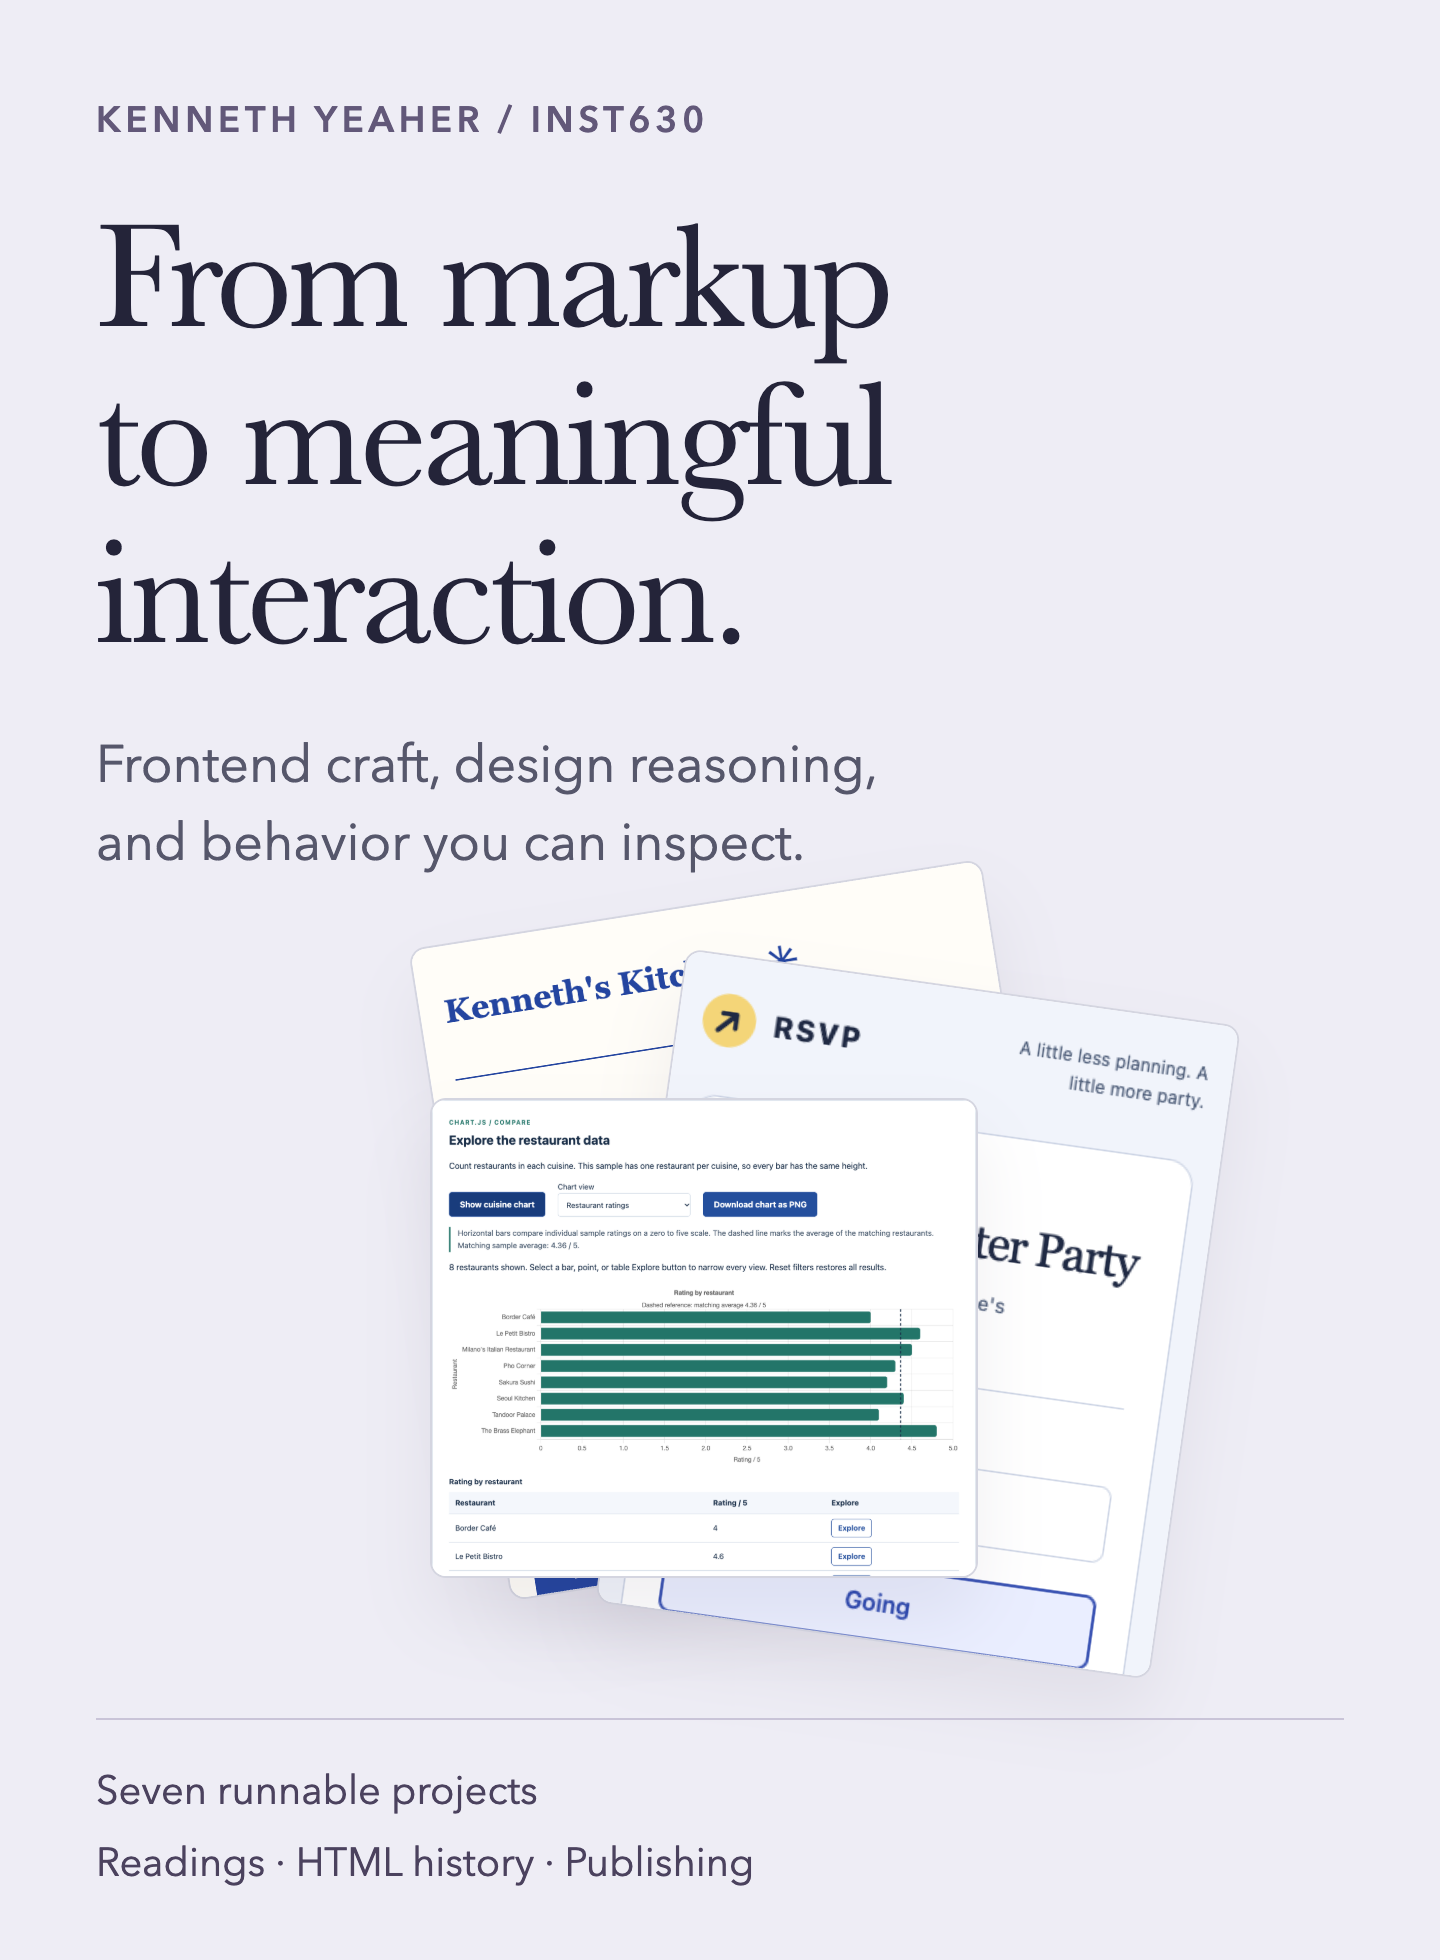
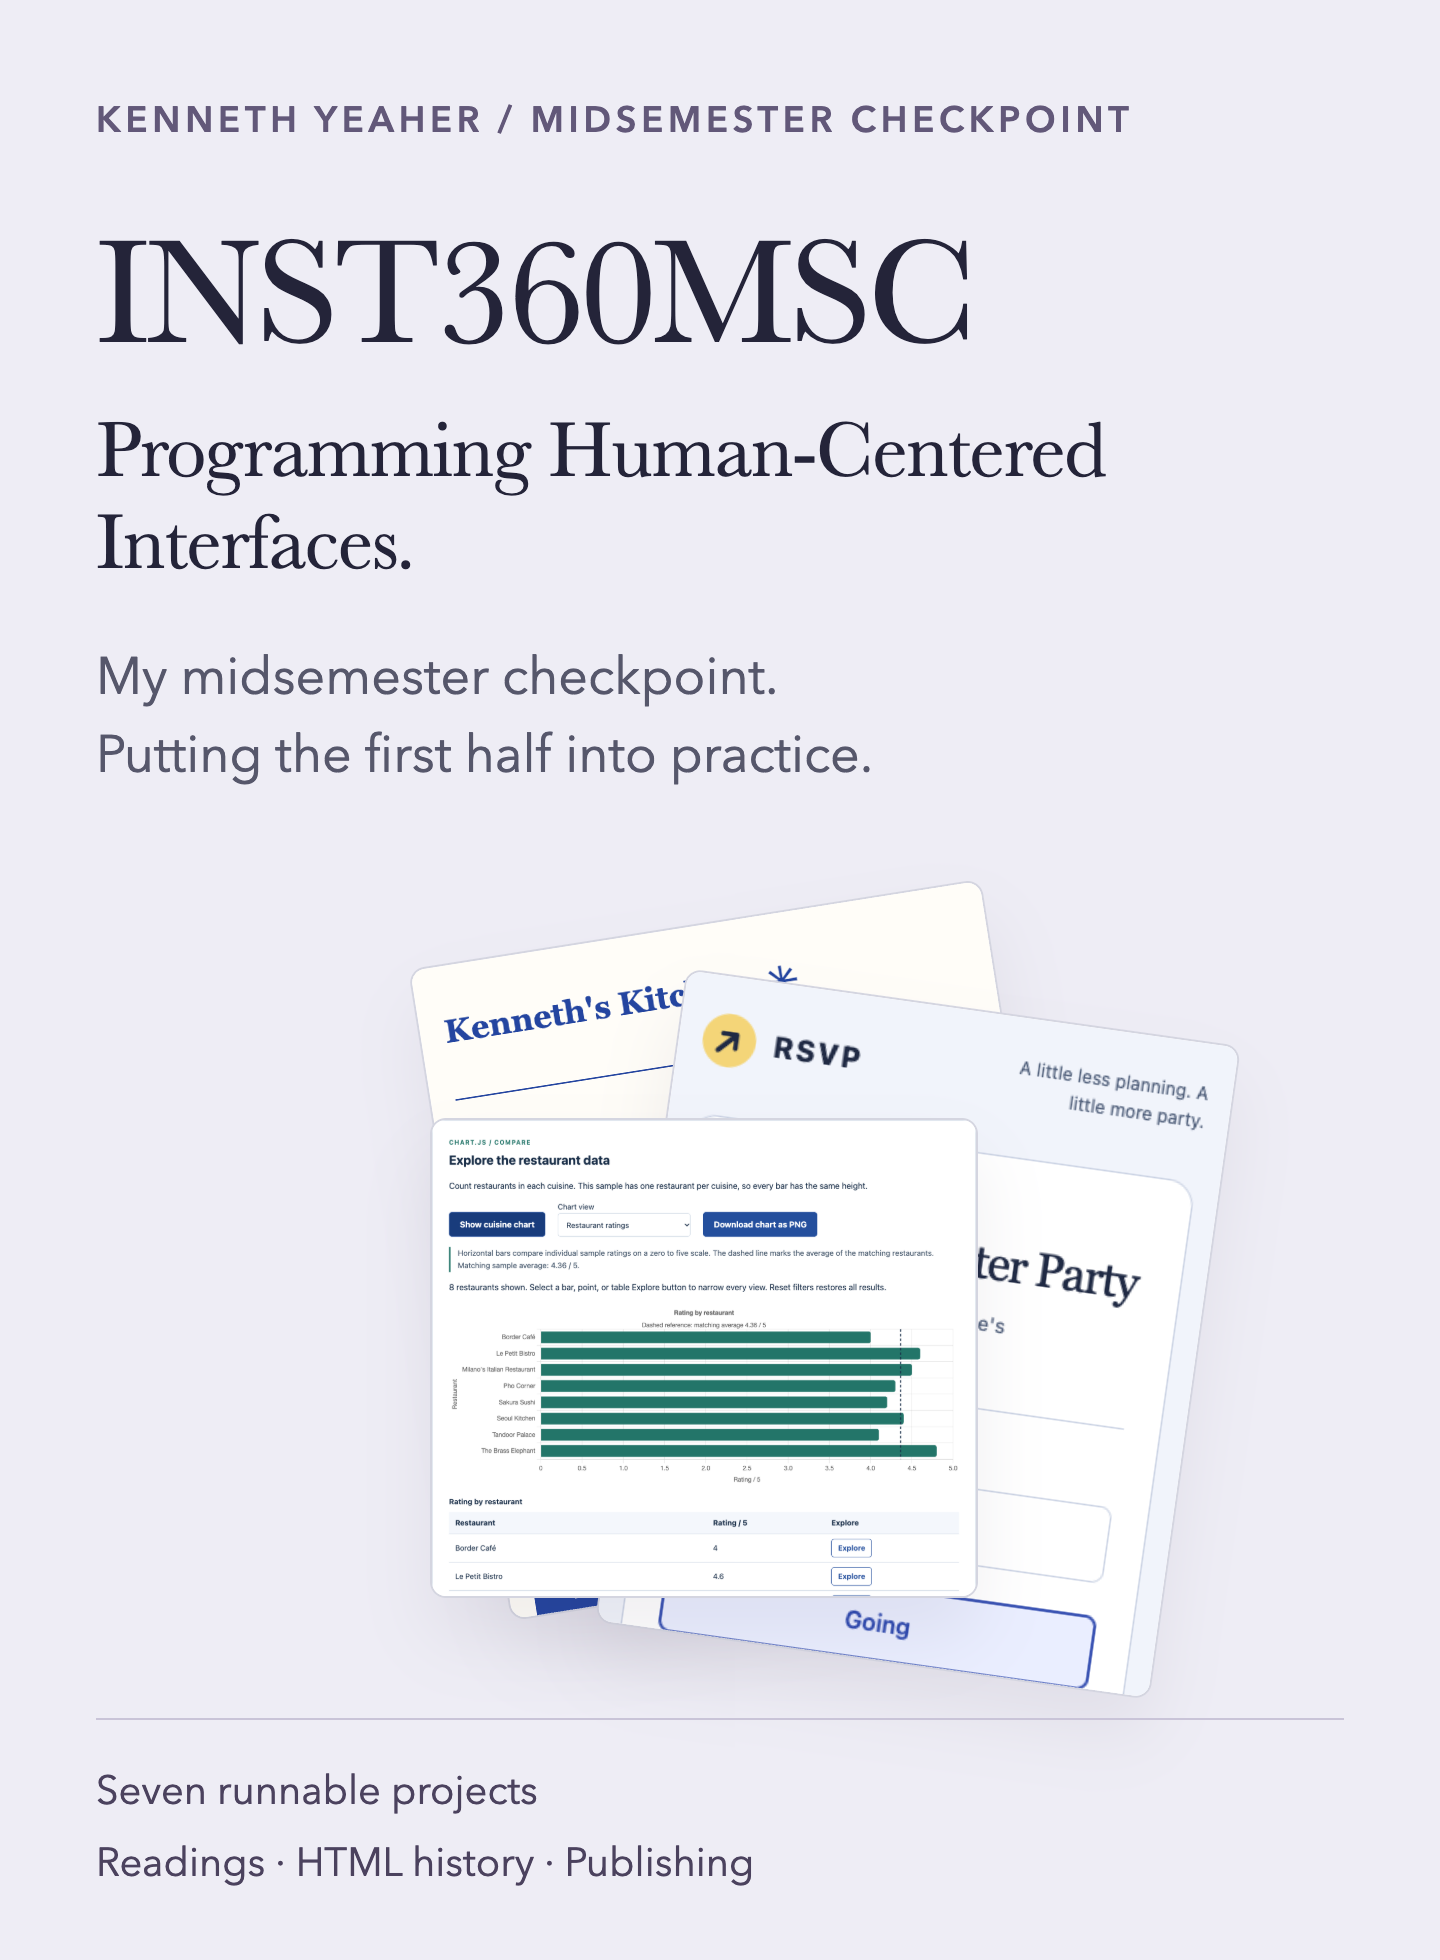
Name the midsemester checkpoint INST360MSC

diff --git a/docs/showcase.html b/docs/showcase.html
@@ -1,8 +1,8 @@
-<!doctype html><html lang="en"><head><meta charset="utf-8"><title>Collection presentation source</title><style>
+<!doctype html><html lang="en"><head><meta charset="utf-8"><title>INST360MSC presentation source</title><style>
 *{box-sizing:border-box}body{margin:0;background:#e1e4ed;color:#242439;font-family:"Avenir Next",Arial,sans-serif}.board{position:relative;width:1400px;height:760px;overflow:hidden;background:#f6f7fb;margin:32px 0;padding:48px}.eyebrow{font-size:18px;letter-spacing:2.4px;text-transform:uppercase;font-weight:600;color:#625879}.display{font-family:Baskerville,Georgia,serif;font-size:82px;line-height:1.04;font-weight:400;letter-spacing:-2px;margin:28px 0}.sub{font-size:23px;line-height:1.5;color:#56576b;max-width:650px}.caption{font-size:17px;color:#64677a;line-height:1.5}.tag{display:inline-block;background:#e9e5f3;color:#4e3a70;padding:7px 12px;font-size:16px;border-radius:6px}.cover{height:640px;background:#eeedf5;padding:48px 58px}.cover .display{max-width:770px;position:relative;z-index:2}.cover .sub{max-width:640px;position:relative;z-index:2}.byline{position:absolute;bottom:40px;left:58px;right:58px;display:flex;justify-content:space-between;border-top:1px solid #c9c4d8;padding-top:22px;color:#4b425e;font-size:18px}.specimen{position:absolute;top:112px;right:52px;width:410px;height:390px}.sheet{position:absolute;background:white;border:1px solid #d4d5e0;box-shadow:0 20px 35px #30234012;overflow:hidden;border-radius:8px}.sheet img{width:100%;display:block}.sheet.a{width:290px;height:330px;right:72px;top:20px;transform:rotate(-9deg)}.sheet.b{width:280px;height:330px;right:-9px;top:62px;transform:rotate(8deg)}.sheet.c{width:274px;height:240px;right:101px;top:119px}.minihead{height:28px;background:#fff;border-bottom:1px solid #e0e0e9;display:flex;gap:5px;align-items:center;padding-left:10px}.dot{height:5px;width:5px;background:#bcb6c9;border-radius:50%}.grid{display:grid;gap:28px}.two{grid-template-columns:1.55fr 1fr}.shot{background:#fff;border:1px solid #dce0ec;box-shadow:0 10px 20px #283f6810;border-radius:8px;overflow:hidden}.shot img{width:100%;height:100%;object-fit:cover;object-position:top;display:block}.label{font-size:18px;color:#5e526e;margin:18px 0 10px}.board h2{font-family:Baskerville,Georgia,serif;font-size:53px;font-weight:400;letter-spacing:-1px;margin:10px 0 12px}.board .lead{font-size:21px;color:#56576b;line-height:1.45;margin:0 0 22px}.strip{position:absolute;bottom:0;left:0;right:0;background:#e7eaf5;padding:21px 48px;display:flex;gap:35px;font-size:17px;color:#3c456c}.library{height:850px}.library .shot{height:530px}.rsvp{height:790px;background:#eeedf8}.rsvp .shot{height:520px}.rsvp .desktop{object-fit:contain;object-position:top}.recipe{height:760px;background:#f3f5f9}.recipe .grid{grid-template-columns:1fr 1fr}.recipe .shot{height:440px}.recipe .after{border-top:5px solid #3757c8}.atlas{height:470px;background:#f6f7fb}.atlas-grid{display:grid;grid-template-columns:repeat(7,1fr);gap:16px;margin-top:28px}.spec{min-width:0}.spec .shot{height:153px;border-radius:5px}.spec b{font-size:18px;display:block;margin:13px 0 6px}.spec span{font-size:15px;color:#606276;display:block}.flow{height:460px;background:#eeedf5}.flow-grid{display:grid;grid-template-columns:260px 65px 340px 65px 1fr;align-items:center;margin-top:34px}.node{background:white;padding:23px;border:1px solid #d5d4e1;border-radius:8px;min-height:140px}.node strong{font-size:23px;display:block;margin-bottom:8px}.node small{font-size:18px;line-height:1.5;color:#5c6075}.arrow{text-align:center;color:#8b80aa;font-size:34px}.outputs{display:flex;gap:12px}.outputs .node{padding:16px;flex:1;min-width:0}.outputs strong{font-size:18px}.outputs small{font-size:16px}.flow-note{font-size:18px;color:#5c6075;margin-top:27px}.mobile{width:720px;height:980px;padding:48px;background:#eeedf5}.mobile .display{font-size:76px;margin-top:26px}.mobile .sub{font-size:26px}.mobile .specimen{top:430px;right:130px;transform:scale(1)}.mobile .byline{left:48px;right:48px;font-size:20px;bottom:35px;display:block}.mobile .byline span{display:block;margin-top:9px}
-.recipe .shot img{height:auto;object-fit:initial}.library .two>div:first-child .shot img{object-position:center 54%}.atlas .shot img{object-position:left top}</style></head><body>
-<section id="cover" class="board cover"><div class="eyebrow">Kenneth Yeaher · University of Maryland · Fall 2026</div><h1 class="display">From markup<br>to meaningful<br>interaction.</h1><p class="sub">A course collection connecting frontend craft,<br>design reasoning, and behavior you can inspect.</p><div class="specimen"><div class="sheet a"><div class="minihead"><i class="dot"></i><i class="dot"></i><i class="dot"></i></div><img src="../projects/03-recipe-redesign/docs/assets/after-redesign-375.png" alt="Recipe mobile excerpt"></div><div class="sheet b"><div class="minihead"><i class="dot"></i><i class="dot"></i><i class="dot"></i></div><img src="../projects/04-rsvp-interaction/docs/assets/preview-375.png" alt="RSVP mobile excerpt"></div><div class="sheet c"><div class="minihead"><i class="dot"></i><i class="dot"></i><i class="dot"></i></div><img src="../projects/07-external-libraries/docs/assets/ratings.png" alt="Rating chart excerpt"></div></div><div class="byline"><span>INST630 / Seven runnable projects</span><span>Readings · HTML history · Publishing</span></div></section>
-<section id="cover-mobile" class="board mobile"><div class="eyebrow">Kenneth Yeaher / INST630</div><h1 class="display">From markup<br>to meaningful<br>interaction.</h1><p class="sub">Frontend craft, design reasoning,<br>and behavior you can inspect.</p><div class="specimen"><div class="sheet a"><img src="../projects/03-recipe-redesign/docs/assets/after-redesign-375.png" alt="Recipe mobile excerpt"></div><div class="sheet b"><img src="../projects/04-rsvp-interaction/docs/assets/preview-375.png" alt="RSVP mobile excerpt"></div><div class="sheet c"><img src="../projects/07-external-libraries/docs/assets/ratings.png" alt="Rating chart excerpt"></div></div><div class="byline">Seven runnable projects<span>Readings · HTML history · Publishing</span></div></section>
+.recipe .shot img{height:auto;object-fit:initial}.library .two>div:first-child .shot img{object-position:center 54%}.atlas .shot img{object-position:left top}.course-name{font-family:Baskerville,Georgia,serif;font-size:45px;line-height:1.15;letter-spacing:-.6px;margin:0 0 24px;position:relative;z-index:2}.cover .display{margin:42px 0 18px}.mobile .display{font-size:76px;margin:34px 0 16px}.mobile .course-name{font-size:40px}.mobile .specimen{top:440px}</style></head><body>
+<section id="cover" class="board cover"><div class="eyebrow">Kenneth Yeaher · University of Maryland · Fall 2026</div><h1 class="display">INST360MSC</h1><p class="course-name">Programming Human-Centered<br>Interfaces.</p><p class="sub">My midsemester checkpoint: putting structure,<br>layout, behavior, and data into practice.</p><div class="specimen"><div class="sheet a"><div class="minihead"><i class="dot"></i><i class="dot"></i><i class="dot"></i></div><img src="../projects/03-recipe-redesign/docs/assets/after-redesign-375.png" alt="Recipe mobile excerpt"></div><div class="sheet b"><div class="minihead"><i class="dot"></i><i class="dot"></i><i class="dot"></i></div><img src="../projects/04-rsvp-interaction/docs/assets/preview-375.png" alt="RSVP mobile excerpt"></div><div class="sheet c"><div class="minihead"><i class="dot"></i><i class="dot"></i><i class="dot"></i></div><img src="../projects/07-external-libraries/docs/assets/ratings.png" alt="Rating chart excerpt"></div></div><div class="byline"><span>Applying the first half of the course</span><span>Readings · HTML history · Publishing</span></div></section>
+<section id="cover-mobile" class="board mobile"><div class="eyebrow">Kenneth Yeaher / Midsemester checkpoint</div><h1 class="display">INST360MSC</h1><p class="course-name">Programming Human-Centered<br>Interfaces.</p><p class="sub">My midsemester checkpoint.<br>Putting the first half into practice.</p><div class="specimen"><div class="sheet a"><img src="../projects/03-recipe-redesign/docs/assets/after-redesign-375.png" alt="Recipe mobile excerpt"></div><div class="sheet b"><img src="../projects/04-rsvp-interaction/docs/assets/preview-375.png" alt="RSVP mobile excerpt"></div><div class="sheet c"><img src="../projects/07-external-libraries/docs/assets/ratings.png" alt="Rating chart excerpt"></div></div><div class="byline">Seven runnable projects<span>Readings · HTML history · Publishing</span></div></section>
 <section id="library" class="board library"><div class="eyebrow">Homework 7 / Coordinated data exploration</div><h2>One selection. Every view stays in step.</h2><p class="lead">Charts, a map, and cards share the matching records. Comparison choices persist across filter changes.</p><div class="grid two"><div><p class="label">Exact values + direct exploration</p><div class="shot"><img src="../projects/07-external-libraries/docs/assets/ratings.png" alt="Rating chart and table excerpt"></div></div><div><p class="label">Illustrative map + readable list</p><div class="shot"><img src="../projects/07-external-libraries/docs/assets/map.png" alt="Restaurant map and list excerpt"></div></div></div><div class="strip"><span>Chart.js · Leaflet · GSAP</span><span>Shared filtering</span><span>Readable library fallbacks</span><span>Course sample data</span></div></section>
 <section id="rsvp" class="board rsvp"><div class="eyebrow">Homework 4 / State, feedback, and recovery</div><h2>An invitation that handles a change of mind.</h2><p class="lead">Conditional guests, explicit draft saving, inline validation, and one-step recovery after reset.</p><div class="grid" style="grid-template-columns:1fr 310px"><div class="shot"><img class="desktop" src="../projects/04-rsvp-interaction/docs/assets/preview-1440.png" alt="Full desktop RSVP capture"></div><div class="shot"><img src="../projects/04-rsvp-interaction/docs/assets/preview-375.png" alt="Mobile RSVP excerpt"></div></div><div class="strip"><span>Native controls</span><span>Live response summary</span><span>Optional storage</span><span>Reset → Undo</span></div></section>
 <section id="recipe" class="board recipe"><div class="eyebrow">Homework 3 / Visual hierarchy and task support</div><h2>From a page to read to a recipe to use.</h2><p class="lead">Timing first. Ingredients grouped. Steps ordered. A native checklist works without JavaScript.</p><div class="grid"><div><p class="label">Supplied starter / excerpt</p><div class="shot"><img src="../projects/03-recipe-redesign/docs/assets/before-starter-1440.png" alt="Original starter recipe excerpt"></div></div><div><p class="label">Redesign / excerpt</p><div class="shot after"><img src="../projects/03-recipe-redesign/docs/assets/after-redesign-1440.png" alt="Redesigned recipe excerpt"></div></div></div><div class="strip"><span>Semantic reading order</span><span>Grid + Flexbox</span><span>Labeled ingredient controls</span><span>Print styles</span></div></section>

diff --git a/index.html b/index.html
@@ -1,7 +1,7 @@
 <!doctype html>
-<html lang="en"><head><meta charset="utf-8"><meta name="viewport" content="width=device-width,initial-scale=1"><title>INST630 · Kenneth Yeaher</title>
+<html lang="en"><head><meta charset="utf-8"><meta name="viewport" content="width=device-width,initial-scale=1"><title>INST360MSC · Programming Human-Centered Interfaces</title>
 <style>body{font:1.05rem/1.7 system-ui,sans-serif;max-width:58rem;margin:auto;padding:2rem;color:#17283b;background:#f6f4ed}h1{font:clamp(2.2rem,6vw,4rem)/1.1 Georgia,serif}a{color:#2347a1;text-underline-offset:.2em}li{margin:1rem 0}a:focus-visible{outline:3px solid #3459bc;outline-offset:4px}img{max-width:100%;height:auto}</style></head>
-<body><header><p>Kenneth Yeaher · University of Maryland</p><h1>Interfaces, built from the fundamentals.</h1><p>Seven INST630 projects, collected for review and midterm practice.</p></header><main><h2>Open a project</h2><ol><li><a href="projects/01-semantic-html/companion/index.html">Semantic HTML and Correspondence</a> · <a href="projects/01-semantic-html/README.md">Project notes</a></li>
+<body><header><p>Kenneth Yeaher · University of Maryland</p><h1>INST360MSC</h1><p><strong>Programming Human-Centered Interfaces · Midsemester checkpoint</strong></p><p>Putting what I have learned in the first half of the semester into practice through seven interface builds, design reasoning, and reading notes.</p></header><main><h2>Open a project</h2><ol><li><a href="projects/01-semantic-html/companion/index.html">Semantic HTML and Correspondence</a> · <a href="projects/01-semantic-html/README.md">Project notes</a></li>
 <li><a href="projects/02-grid-and-flex/index.html">Design Notes: Grid and Flexbox</a> · <a href="projects/02-grid-and-flex/README.md">Project notes</a></li>
 <li><a href="projects/03-recipe-redesign/index.html">Recipe redesign</a> · <a href="projects/03-recipe-redesign/README.md">Project notes</a></li>
 <li><a href="projects/04-rsvp-interaction/tutorial_4_files/index.html">RSVP interaction</a> · <a href="projects/04-rsvp-interaction/README.md">Project notes</a></li>

diff --git a/README.md b/README.md
@@ -1,17 +1,21 @@
 <p align="center">
 <picture>
   <source media="(max-width: 600px)" srcset="docs/assets/cover-mobile.png">
-  <img src="docs/assets/cover.png" alt="From markup to meaningful interaction. Kenneth Yeaher's INST630 collection combines seven runnable projects, readings, HTML history, and publishing." width="100%">
+  <img src="docs/assets/cover.png" alt="INST360MSC. Programming Human-Centered Interfaces: my midsemester checkpoint, applying structure, layout, behavior, and data." width="100%">
 </picture>
 </p>
 
-<p align="center"><strong>Frontend development through an interaction design lens.</strong><br>
-A University of Maryland course collection: seven working builds, textbook-supported design reasoning, and a study companion for the full course sequence.</p>
+# INST360MSC
+
+<p align="center"><strong>Programming Human-Centered Interfaces · Midsemester checkpoint</strong><br>
+Putting the first half of the semester into practice through interface design and frontend development.</p>
+
+This is my project for the halfway point of the course: a place to bring together what I have learned about HTML, CSS, JavaScript, data, and interaction design. The seven builds show that progression in working code, supported by design case studies and a reading companion. The [course map](docs/course-map.md) connects the work to the assignments.
 
 <p align="center">
 <a href="docs/course-map.md"><img src="https://img.shields.io/badge/course_map-16_components-625879?style=flat-square" alt="Course map: 16 components"></a>
 <img src="https://img.shields.io/badge/stack-HTML_%C2%B7_CSS_%C2%B7_JavaScript-3757c8?style=flat-square" alt="HTML, CSS, and JavaScript">
-<a href="https://github.com/kennethyeaher/inst630-web-development/actions/workflows/collection-checks.yml"><img src="https://img.shields.io/github/actions/workflow/status/kennethyeaher/inst630-web-development/collection-checks.yml?branch=main&amp;style=flat-square&amp;label=checks" alt="Current collection checks"></a>
+<a href="https://github.com/kennethyeaher/INST360MSC/actions/workflows/collection-checks.yml"><img src="https://img.shields.io/github/actions/workflow/status/kennethyeaher/INST360MSC/collection-checks.yml?branch=main&amp;style=flat-square&amp;label=checks" alt="Current collection checks"></a>
 </p>
 
 <p align="center"><a href="#selected-work">Selected work</a> · <a href="#the-full-course">The full course</a> · <a href="docs/case-studies.md">Case studies</a> · <a href="docs/reading-companion.md">Reading companion</a> · <a href="docs/midterm-guide.md">Midterm practice</a></p>
@@ -67,7 +71,7 @@ A University of Maryland course collection: seven working builds, textbook-suppo
 
 <img src="docs/assets/atlas.png" alt="Homework progression: semantic HTML, Grid and Flexbox, recipe redesign, JavaScript interaction, array methods, async loading, and external libraries." width="100%">
 
-The collection follows the course sequence, including the discussion and publishing work alongside the builds.
+This checkpoint brings together the first half of the course, including the discussion and publishing work alongside the builds.
 
 | Course strand | Included here | Open |
 | --- | --- | --- |
@@ -103,8 +107,8 @@ The [case studies](docs/case-studies.md) follow the problem, implementation, rea
 ## Run and inspect
 
 ```sh
-git clone https://github.com/kennethyeaher/inst630-web-development.git
-cd inst630-web-development
+git clone https://github.com/kennethyeaher/INST360MSC.git
+cd INST360MSC
 python3 -m http.server 8000 --bind 127.0.0.1
 ```
 

diff --git a/docs/visual-system.md b/docs/visual-system.md
@@ -2,6 +2,8 @@
 
 ## Direction
 
+The project is named **INST360MSC**: a midsemester checkpoint for **Programming Human-Centered Interfaces**. The cover names the project directly and frames the work as applying the first half of the course.
+
 The collection uses interface specimens: actual project screens arranged to show an implementation decision. The cover introduces the body of work, the atlas shows course progression, and each featured plate answers a different review question. The recipe compares before and after; RSVP compares desktop and mobile; the library lab compares representations of the same data.
 
 ## Tokens
